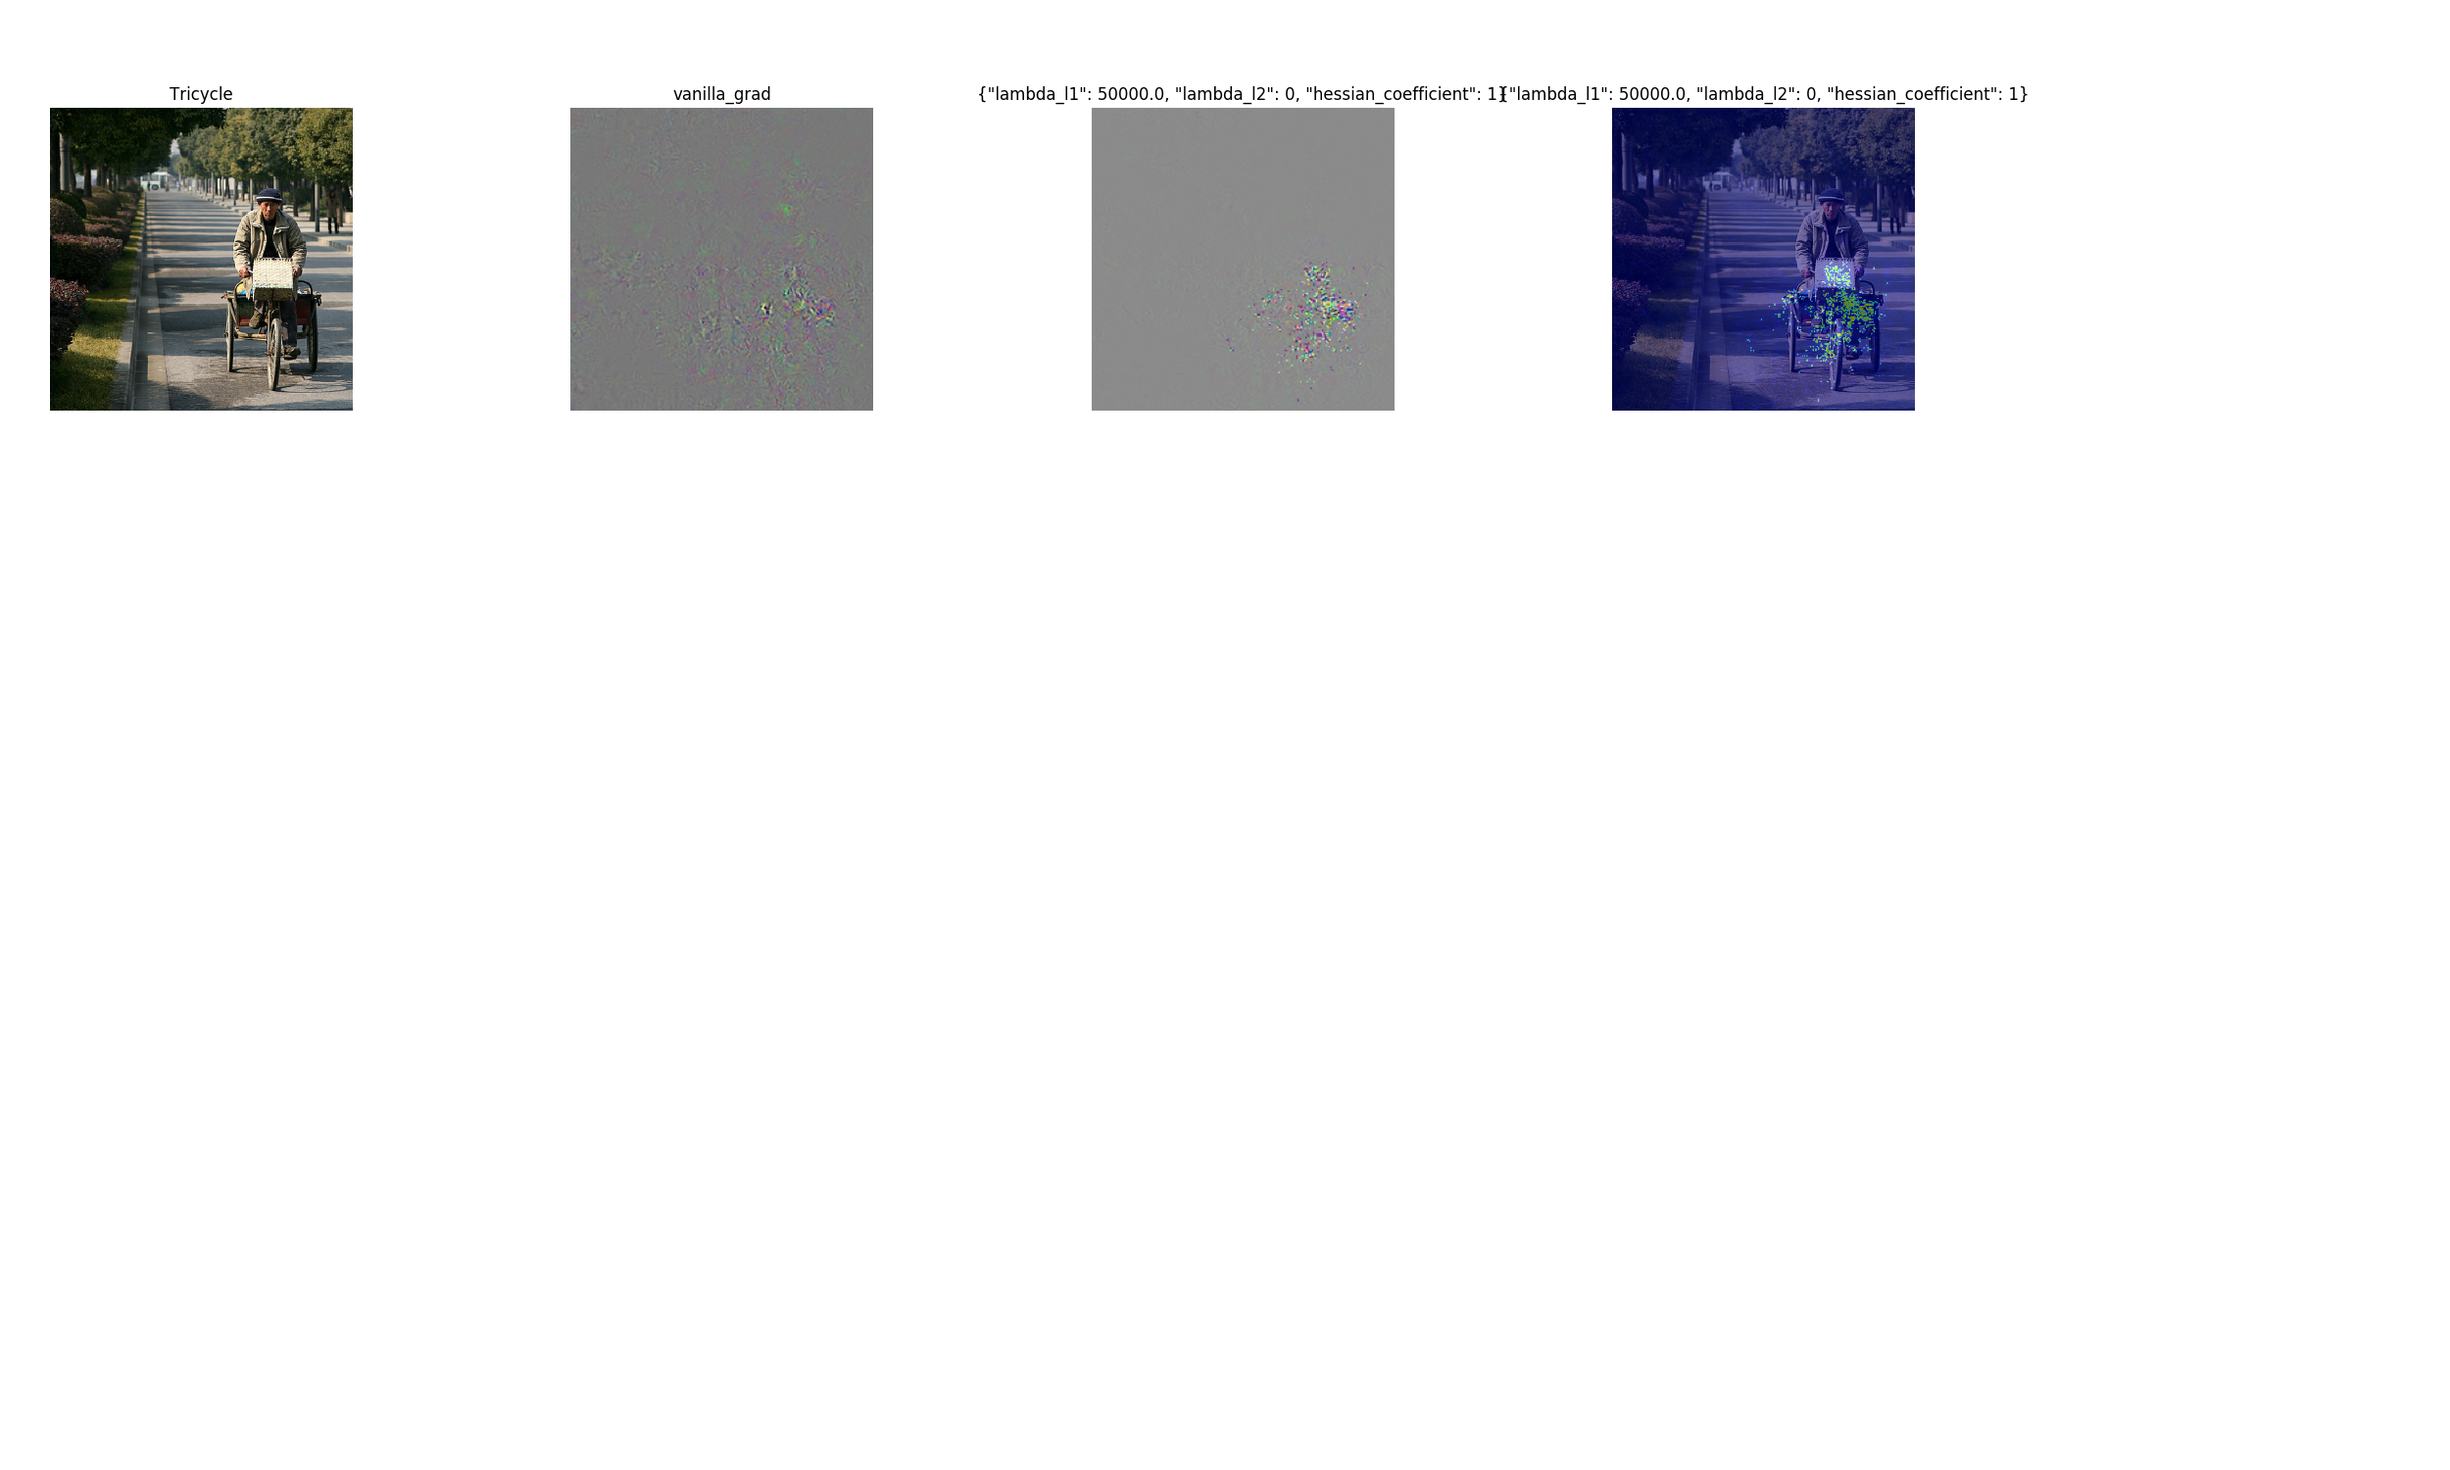
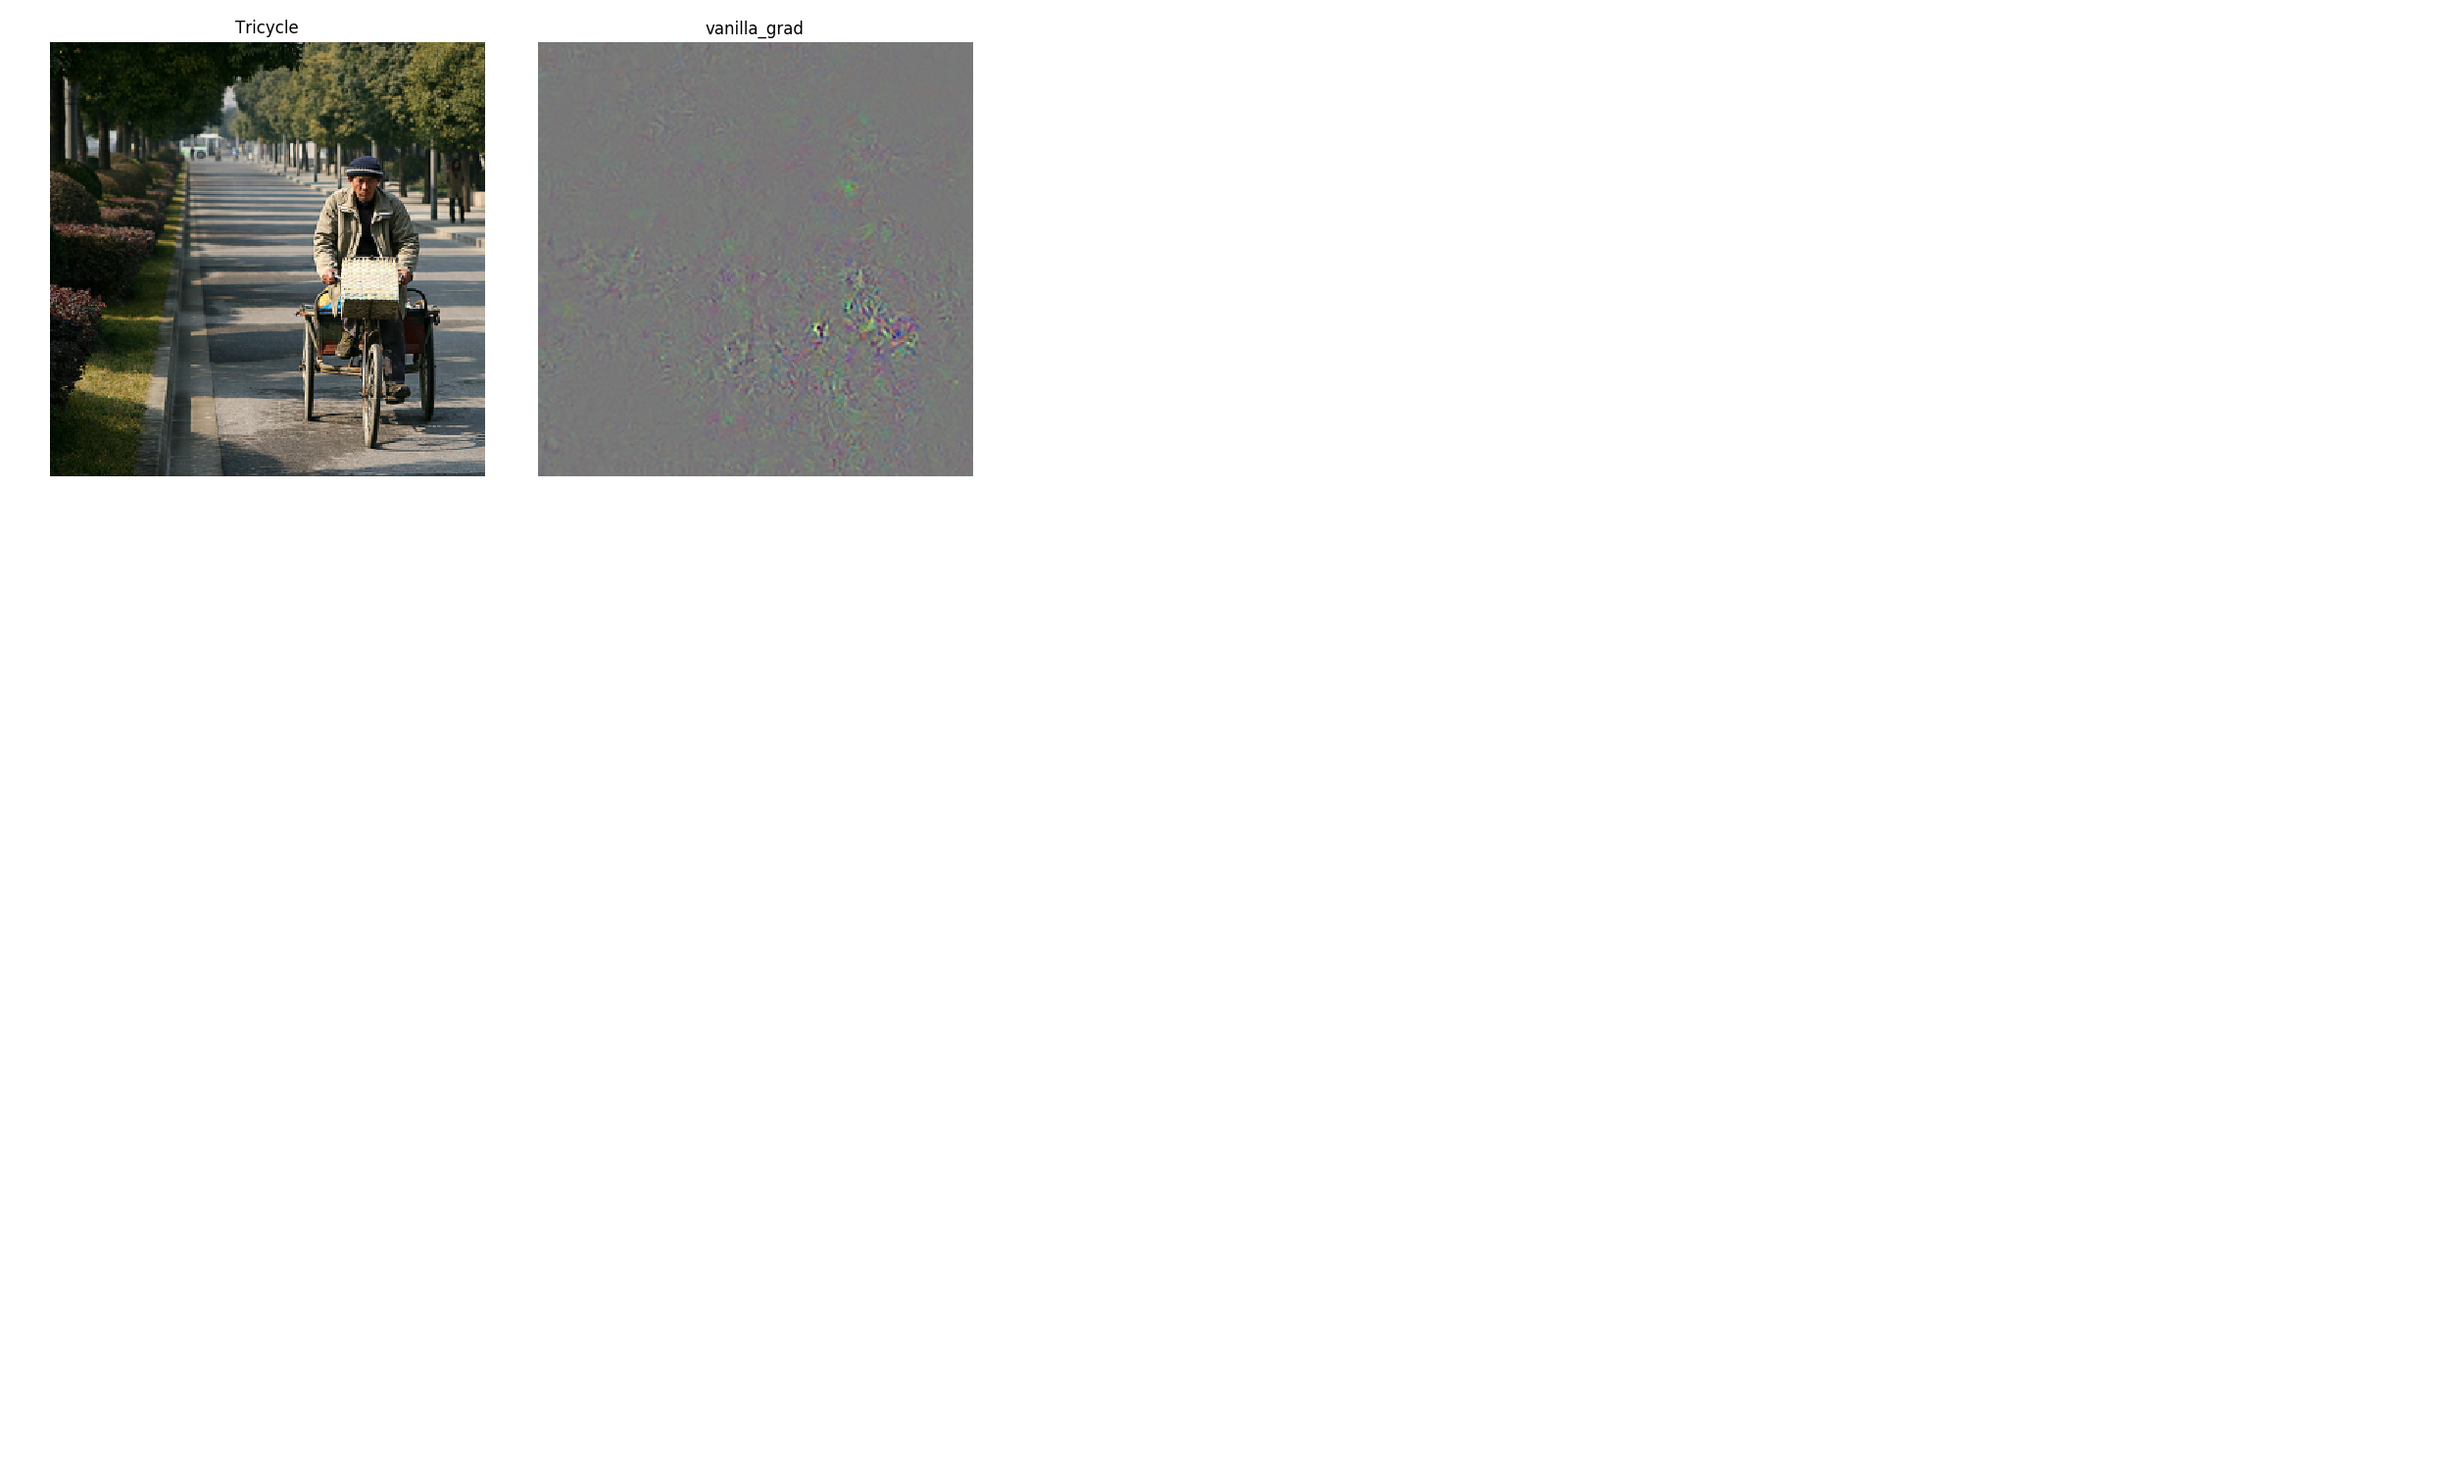
upd

Changed region(s): [[0.0, 0.0, 0.5928, 0.3373], [0.6552, 0.0613, 0.8112, 0.3067]]

diff --git a/soheil.py b/soheil.py
@@ -6,11 +6,55 @@ import matplotlib
 matplotlib.use('Agg')
 import matplotlib.pyplot as plt
 import torch
+import PIL.Image
+from matplotlib import pylab as P
 
 import viz
 import utils
 from create_explainer import get_explainer
 from preprocess import get_preprocess
+
+def ShowGrayscaleImage(im, title='', ax=None):
+  if ax is None:
+    P.figure()
+  P.axis('off')
+
+  P.imshow(im, cmap=P.cm.gray, vmin=0, vmax=1)
+  P.title(title)
+
+# def ShowDivergingImage(grad, title='', percentile=99, ax=None):  
+#   if ax is None:
+#     fig, ax = P.subplots()
+#   else:
+#     fig = ax.figure
+  
+#   P.axis('off')
+#   divider = make_axes_locatable(ax)
+#   cax = divider.append_axes('right', size='5%', pad=0.05)
+#   im = ax.imshow(grad, cmap=P.cm.coolwarm, vmin=-1, vmax=1)
+#   fig.colorbar(im, cax=cax, orientation='vertical')
+#   P.title(title)
+
+# def LoadImage(file_path):
+#   im = PIL.Image.open(file_path)
+#   im = np.asarray(im)
+#   return im / 127.5 - 1.0
+
+
+def VisualizeImageGrayscale(image_3d, percentile=99):
+  r"""Returns a 3D tensor as a grayscale 2D tensor.
+  This method sums a 3D tensor across the absolute value of axis=2, and then
+  clips values at a given percentile.
+  """  
+  image_3d = np.abs(image_3d.squeeze())
+  image_2d = torch.sum(image_3d, dim=0)
+
+  image_2d = image_2d.numpy()
+  vmax = np.percentile(image_2d, percentile)
+  vmin = np.min(image_2d)
+
+  clipped =  np.clip((image_2d - vmin) / (vmax - vmin), 0, 1)
+  return torch.from_numpy(clipped)
 
 
 def main():
@@ -18,7 +62,7 @@ def main():
         ['resnet50', 'vanilla_grad', 'imshow', None],
         # ['resnet50', 'grad_x_input', 'imshow', None],
         # ['resnet50', 'saliency', 'imshow', None],
-        ['resnet50', 'smooth_grad', 'imshow', None],
+        #['resnet50', 'sparse_integrate_grad', 'imshow', None],
         # ['resnet50', 'deconv', 'imshow', None],
         # ['resnet50', 'guided_backprop', 'imshow', None],
         # ['resnet50', 'gradcam', 'camshow', None],
@@ -37,11 +81,11 @@ def main():
         #    {'hessian_coefficient': 0, 'lambda_l1': 1e3, 'lambda_l2': 1e5}],
         #['resnet50', 'sparse', 'camshow',
         #    {'hessian_coefficient': 0, 'lambda_l1': 1e4, 'lambda_l2': 1e5}],
-        ['resnet50', 'sparse', 'imshow',
-            {'hessian_coefficient': 1, 'lambda_l1': 5e4, 'lambda_l2': 0}],                    
-        ['resnet50', 'sparse', 'camshow',
-            {'hessian_coefficient': 1, 'lambda_l1': 5e4, 'lambda_l2': 0}],            
-        ['resnet50', 'sparse_smooth_grad', 'imshow', None],
+        #['resnet50', 'sparse', 'imshow',
+            #{'hessian_coefficient': 1, 'lambda_l1': 5e4, 'lambda_l2': 0}],                    
+        #['resnet50', 'sparse', 'camshow',
+        #    {'hessian_coefficient': 1, 'lambda_l1': 5e4, 'lambda_l2': 0}],            
+        #['resnet50', 'sparse_smooth_grad', 'imshow', None],
         #['resnet50', 'sparse', 'camshow',
         #    {'hessian_coefficient': 1, 'lambda_l1': 1e4, 'lambda_l2': 1e5}],
         #['resnet50', 'sparse', 'camshow',
@@ -69,7 +113,18 @@ def main():
 
         #target = torch.LongTensor([image_class]).cuda()
         saliency = explainer.explain(inp, None)#target)
+        saliency = VisualizeImageGrayscale(saliency)
         saliency = utils.upsample(saliency, (raw_img.height, raw_img.width))
+
+
+        # Set up matplot lib figures.
+
+        #ShowGrayscaleImage(, title='method', ax=P.subplot(ROWS,COLS,1))
+
+#         # Render the saliency masks.
+# ShowGrayscaleImage(vanilla_mask_grayscale, title='Vanilla Gradient', ax=P.subplot(ROWS, COLS, 1))
+# ShowGrayscaleImage(smoothgrad_mask_grayscale, title='SmoothGrad', ax=P.subplot(ROWS, COLS, 2))
+
         all_saliency_maps.append(saliency.cpu().numpy())
 
     plt.figure(figsize=(25, 15))
@@ -80,17 +135,17 @@ def main():
     for i, saliency in enumerate(all_saliency_maps):
         model_name, method_name, show_style, extra_args = model_methods[i]
         plt.subplot(3, 5, i + 2 + i // 4)
-        if show_style == 'camshow':
-            viz.plot_cam(np.abs(saliency).max(axis=1).squeeze(),
-                         raw_img, 'jet', alpha=0.5)
-        else:
-            if model_name == 'googlenet' or method_name == 'pattern_net':
-                saliency = saliency.squeeze()[::-1].transpose(1, 2, 0)
-            else:
-                saliency = saliency.squeeze().transpose(1, 2, 0)
-            saliency -= saliency.min()
-            saliency /= (saliency.max() + 1e-20)
-            plt.imshow(saliency, cmap='gray')
+        # if show_style == 'camshow':
+        #     viz.plot_cam(np.abs(saliency).max(axis=1).squeeze(),
+        #                  raw_img, 'jet', alpha=0.5)
+        # else:
+        #     if model_name == 'googlenet' or method_name == 'pattern_net':
+        #         saliency = saliency.squeeze()[::-1].transpose(1, 2, 0)
+        #     else:
+        #         saliency = saliency.squeeze().transpose(1, 2, 0)
+        #     saliency -= saliency.min()
+        #     saliency /= (saliency.max() + 1e-20)
+        plt.imshow(saliency, cmap=P.cm.gray, vmin=0, vmax=1)
 
         plt.axis('off')
         if method_name == 'excitation_backprop':

diff --git a/explainer/backprop.py b/explainer/backprop.py
@@ -2,7 +2,7 @@ import numpy as np
 from torch.autograd import Variable, Function
 import torch
 import types
-from sparse import SparseExplainer
+from explainer import sparse as sparse
 
 class VanillaGradExplainer(object):
     def __init__(self, model):
@@ -58,10 +58,10 @@ class IntegrateGradExplainer(VanillaGradExplainer):
 
 
 class SparseIntegrateGradExplainer(VanillaGradExplainer):
-    def __init__(self, model, steps=100):
-        super(IntegrateGradExplainer, self).__init__(model)
+    def __init__(self, model, steps=5):
+        super(SparseIntegrateGradExplainer, self).__init__(model)
         self.steps = steps
-        self.sparse = SparseExplainer()
+        self.sparse = sparse.SparseExplainer(model)
 
     def explain(self, inp, ind=None):
         grad = 0

diff --git a/explainer/sparse.py b/explainer/sparse.py
@@ -4,7 +4,7 @@ import torch.nn.functional as F
 
 
 class SparseExplainer(object):
-    def __init__(self, model, hessian_coefficient=1, lambda_l1=1e3, lambda_l2=1e5,
+    def __init__(self, model, hessian_coefficient=1,lambda_l1=1e3, lambda_l2=1e5,
                  n_iterations=10):
         self.model = model        
         self.hessian_coefficient = hessian_coefficient 
@@ -40,5 +40,4 @@ class SparseExplainer(object):
             loss.backward()
             optimizer.step()
         delta = delta.view((batch_size, n_chs, img_width, img_height))
-        return delta.data
-
+        return delta.data.abs()    # abs as recommended by sohiel
